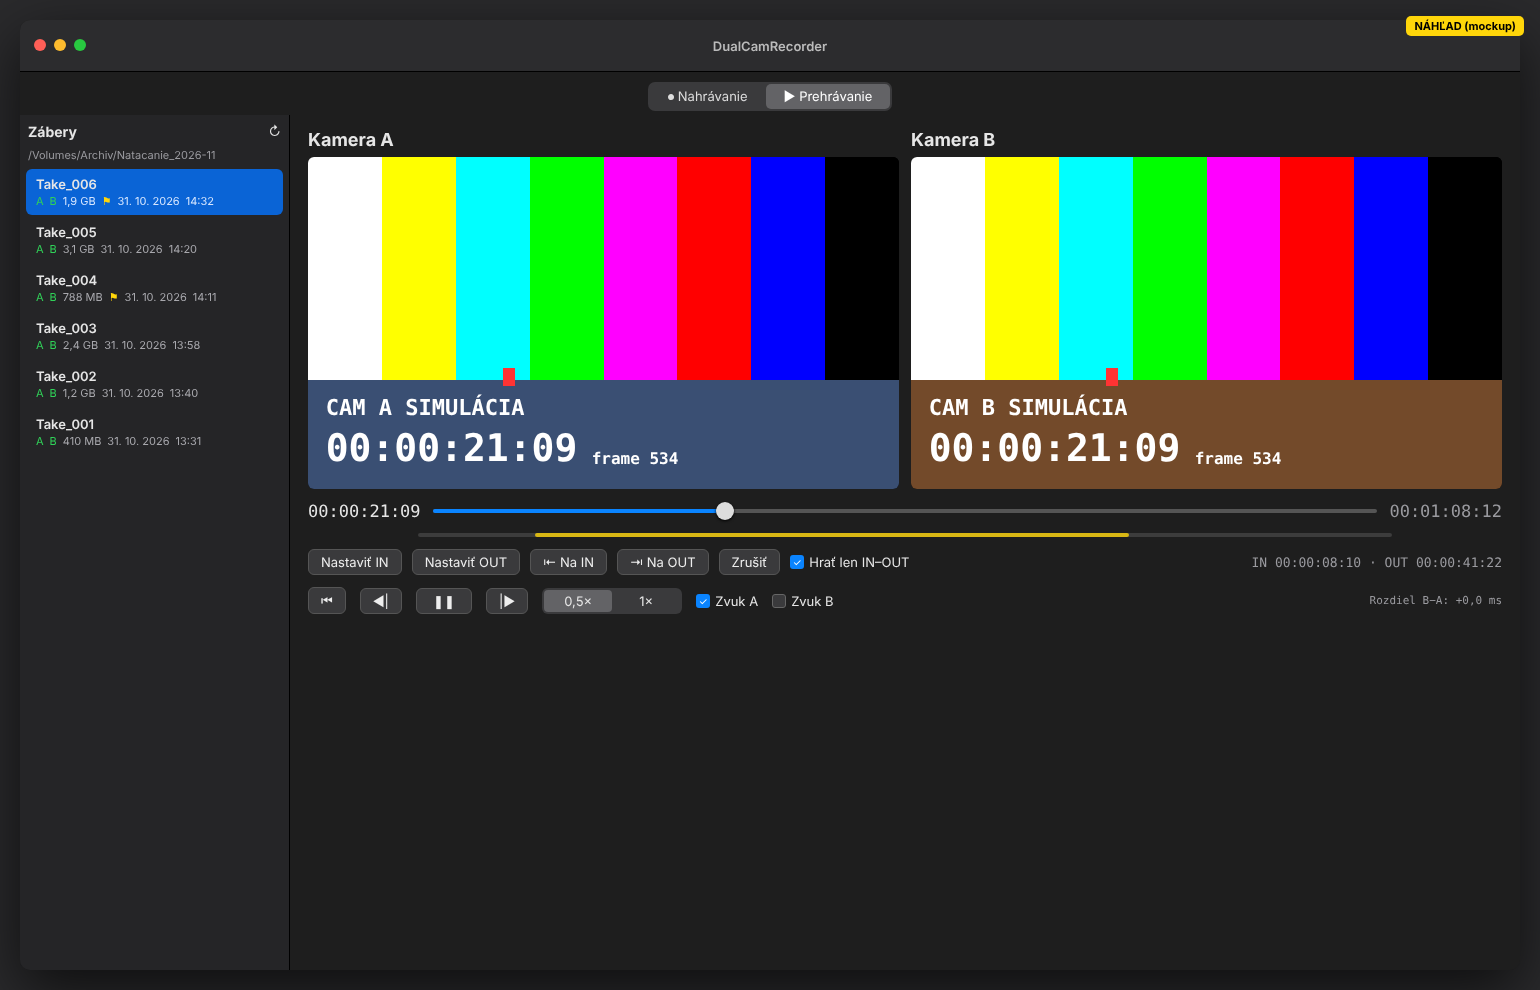
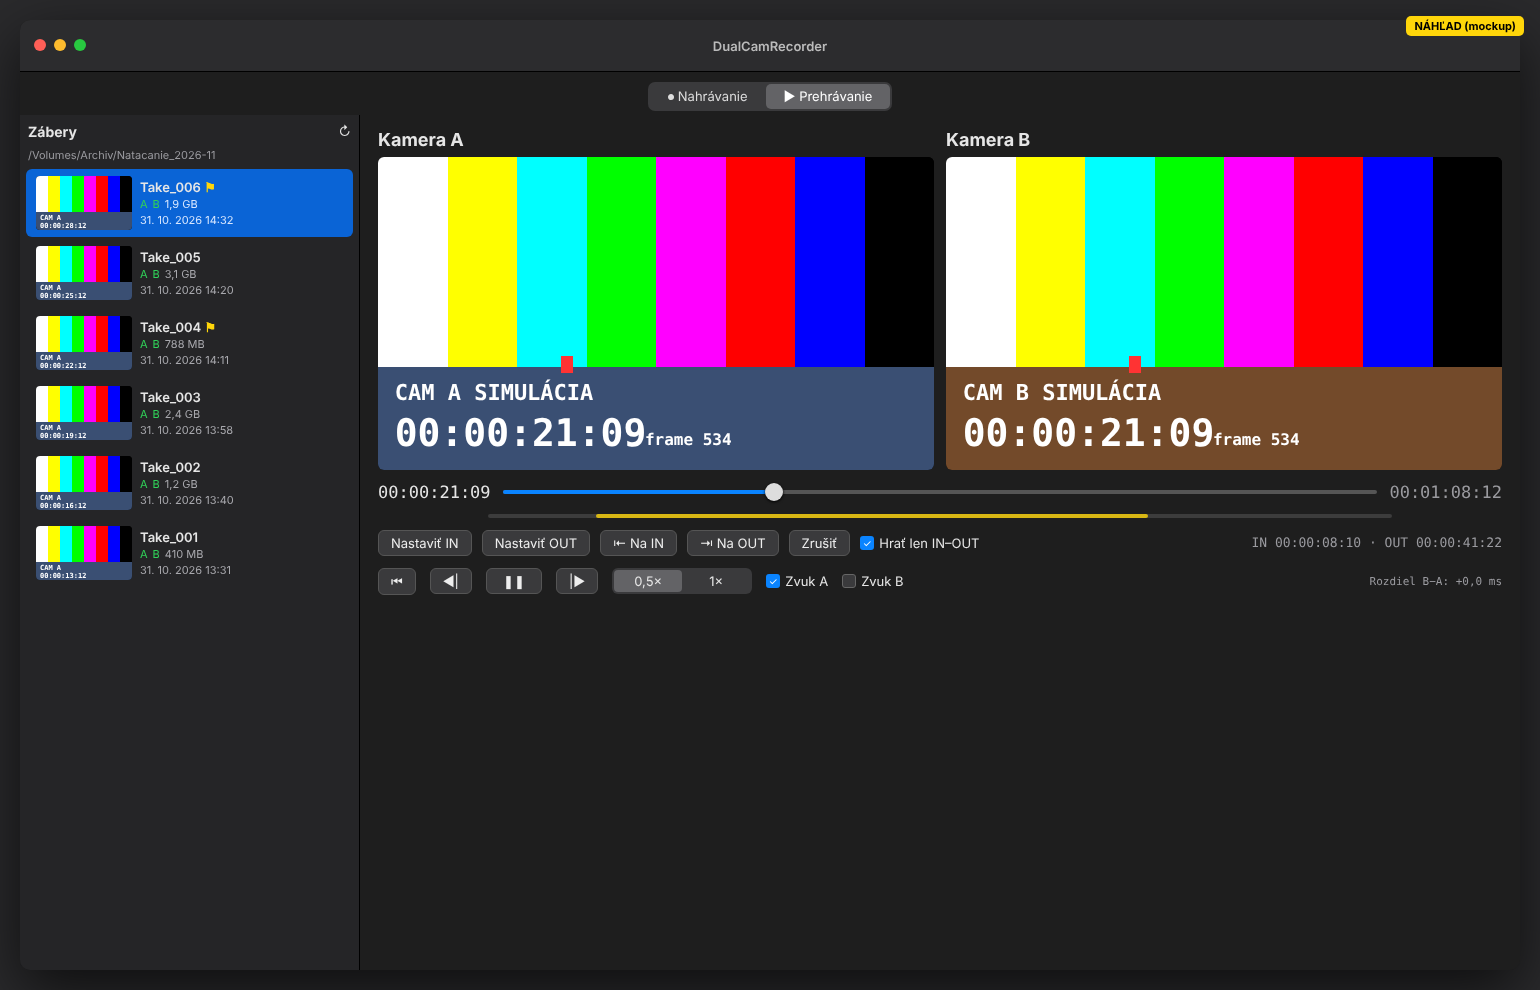
Show a poster frame from the middle of each take in the take list
ThumbnailCache generates a small image at half the duration of CamA
(CamB if A is missing) with AVAssetImageGenerator, asynchronously and
cached in memory keyed by file and modification date.

Claude-Session: https://claude.ai/code/session_01SjxyfTkJQH7RKsrkA8EJQA

Changed region(s): [[0.0, 0.1212, 0.9974, 0.6364]]

diff --git a/DualCamRecorder/Playback/ThumbnailCache.swift b/DualCamRecorder/Playback/ThumbnailCache.swift
@@ -1,0 +1,83 @@
+//
+//  ThumbnailCache.swift
+//  DualCamRecorder
+//
+//  Poster frame from the middle of a take (CamA, or CamB if A is missing), generated
+//  asynchronously with AVAssetImageGenerator at small size and cached in memory.
+//
+
+import AppKit
+import AVFoundation
+import SwiftUI
+
+final class ThumbnailCache {
+    static let shared = ThumbnailCache()
+
+    private let cache: NSCache<NSString, NSImage> = {
+        let c = NSCache<NSString, NSImage>()
+        c.countLimit = 300
+        return c
+    }()
+
+    func cached(url: URL, modified: Date) -> NSImage? {
+        cache.object(forKey: key(url, modified))
+    }
+
+    func image(url: URL, modified: Date) async -> NSImage? {
+        let k = key(url, modified)
+        if let hit = cache.object(forKey: k) { return hit }
+
+        let asset = AVURLAsset(url: url)
+        guard let duration = try? await asset.load(.duration), duration.isValid, duration.seconds > 0 else { return nil }
+        let generator = AVAssetImageGenerator(asset: asset)
+        generator.appliesPreferredTrackTransform = true
+        generator.maximumSize = CGSize(width: 320, height: 180)
+        // ProRes is intra-frame, any nearby frame is cheap – allow some tolerance.
+        generator.requestedTimeToleranceBefore = CMTime(seconds: 0.5, preferredTimescale: 600)
+        generator.requestedTimeToleranceAfter = CMTime(seconds: 0.5, preferredTimescale: 600)
+
+        let middle = CMTimeMultiplyByRatio(duration, multiplier: 1, divisor: 2)
+        guard let result = try? await generator.image(at: middle) else { return nil }
+        let cgImage = result.image
+        let image = NSImage(cgImage: cgImage, size: NSSize(width: cgImage.width, height: cgImage.height))
+        cache.setObject(image, forKey: k)
+        return image
+    }
+
+    private func key(_ url: URL, _ modified: Date) -> NSString {
+        "\(url.path)|\(modified.timeIntervalSince1970)" as NSString
+    }
+}
+
+/// Small 16:9 poster frame for the take list.
+struct TakeThumbnail: View {
+    let take: Take
+    @State private var image: NSImage?
+
+    private var source: URL? { take.camA ?? take.camB }
+
+    var body: some View {
+        ZStack {
+            Rectangle().fill(Color.black)
+            if let image {
+                Image(nsImage: image)
+                    .resizable()
+                    .aspectRatio(contentMode: .fit)
+            } else {
+                Image(systemName: "film")
+                    .foregroundStyle(.secondary)
+            }
+        }
+        .frame(width: 96, height: 54)
+        .clipShape(RoundedRectangle(cornerRadius: 4))
+        .task(id: "\(source?.path ?? "")|\(take.modified.timeIntervalSince1970)") {
+            guard let source else { image = nil; return }
+            if let hit = ThumbnailCache.shared.cached(url: source, modified: take.modified) {
+                image = hit
+                return
+            }
+            image = nil
+            image = await ThumbnailCache.shared.image(url: source, modified: take.modified)
+        }
+    }
+}

diff --git a/DualCamRecorder/Views/PlaybackView.swift b/DualCamRecorder/Views/PlaybackView.swift
@@ -16,7 +16,7 @@ struct PlaybackView: View {
     var body: some View {
         HSplitView {
             takeList
-                .frame(minWidth: 220, idealWidth: 260, maxWidth: 360)
+                .frame(minWidth: 300, idealWidth: 340, maxWidth: 440)
             VStack(spacing: 12) {
                 HStack(spacing: 12) {
                     playerPane(title: "Kamera A", available: player.take?.camA != nil, content: PlayerView(player: player.playerA))
@@ -54,18 +54,28 @@ struct PlaybackView: View {
                 .lineLimit(1).truncationMode(.middle)
                 .padding(.horizontal, 8)
             List(library.takes, selection: $selection) { take in
-                VStack(alignment: .leading, spacing: 2) {
-                    Text(take.name).font(.body.weight(.semibold))
-                    HStack(spacing: 6) {
-                        Text(take.camA != nil ? "A" : "–").foregroundStyle(take.camA != nil ? Color.green : Color.secondary)
-                        Text(take.camB != nil ? "B" : "–").foregroundStyle(take.camB != nil ? Color.green : Color.secondary)
-                        Text(DisplayFormat.bytes(take.sizeBytes))
-                        if let m = take.marks, !m.isEmpty { Image(systemName: "flag.fill").foregroundStyle(.yellow) }
-                        Text(take.modified, style: .date)
-                        Text(take.modified, style: .time)
+                HStack(spacing: 8) {
+                    TakeThumbnail(take: take)
+                    VStack(alignment: .leading, spacing: 2) {
+                        HStack(spacing: 6) {
+                            Text(take.name).font(.body.weight(.semibold)).foregroundStyle(.primary)
+                            if let m = take.marks, !m.isEmpty {
+                                Image(systemName: "flag.fill").foregroundStyle(.yellow).help("Má IN/OUT")
+                            }
+                        }
+                        HStack(spacing: 6) {
+                            Text(take.camA != nil ? "A" : "–").foregroundStyle(take.camA != nil ? Color.green : Color.secondary)
+                            Text(take.camB != nil ? "B" : "–").foregroundStyle(take.camB != nil ? Color.green : Color.secondary)
+                            Text(DisplayFormat.bytes(take.sizeBytes))
+                        }
+                        HStack(spacing: 4) {
+                            Text(take.modified, style: .date)
+                            Text(take.modified, style: .time)
+                        }
                     }
                     .font(.caption).foregroundStyle(.secondary)
                 }
+                .padding(.vertical, 2)
                 .tag(take.id)
             }
         }

diff --git a/README.md b/README.md
@@ -35,7 +35,8 @@ Plán a architektúra: [`docs/PLAN.md`](docs/PLAN.md).
   (čas v sekundách od začiatku záberu, platí pre CamA aj CamB) a použije ich prehrávanie.
 
 ### Záložka PREHRÁVANIE
-- Zoznam záberov v priečinku (sleduje zmeny v priečinku; práve nahrávaný záber je skrytý).
+- Zoznam záberov v priečinku (sleduje zmeny v priečinku; práve nahrávaný záber je skrytý),
+  pri každom zábere **náhľadový obrázok zo stredu záznamu** (z CamA, ak chýba tak z CamB).
 - Po výbere sa načíta CamA a CamB vedľa seba v dvoch `AVPlayer`-och.
 - Spoločné **play/pause** (medzerník), **posuvník**, **krokovanie po snímkach** (← / →),
   **rýchlosť 0,5× / 1×**, výber zvuku A/B, zobrazenie rozdielu pozícií B−A.
@@ -133,7 +134,8 @@ DualCamRecorder/
               RecordingController (zariadenia, REC/STOP, IN/OUT, disk), TakeNaming,
               TakeMarks (IN/OUT, Take_###_marks.json)
   Preview/    PreviewRenderer (VTPixelTransfer → AVSampleBufferDisplayLayer), PreviewView
-  Playback/   TakeLibrary, SyncPlaybackController (2× AVPlayer), PlayerView
+  Playback/   TakeLibrary, ThumbnailCache (náhľady zo stredu záberu),
+              SyncPlaybackController (2× AVPlayer), PlayerView
   Views/      RecordView, PlaybackView, SettingsView, Components
 docs/PLAN.md                      plán a architektúra
 tools/gen_xcodeproj.py            generátor project.pbxproj + zdieľanej schémy
